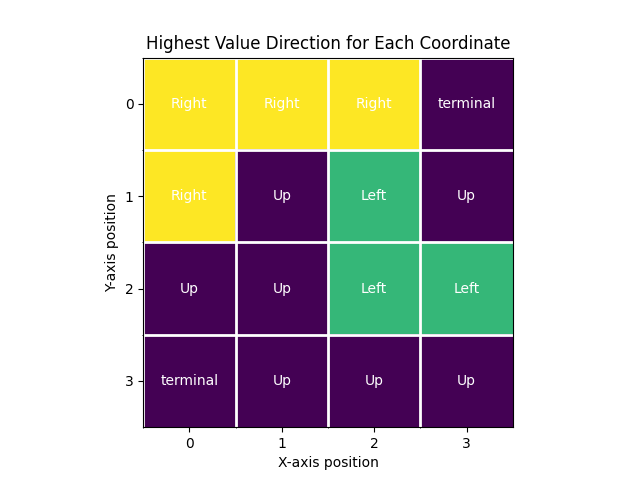
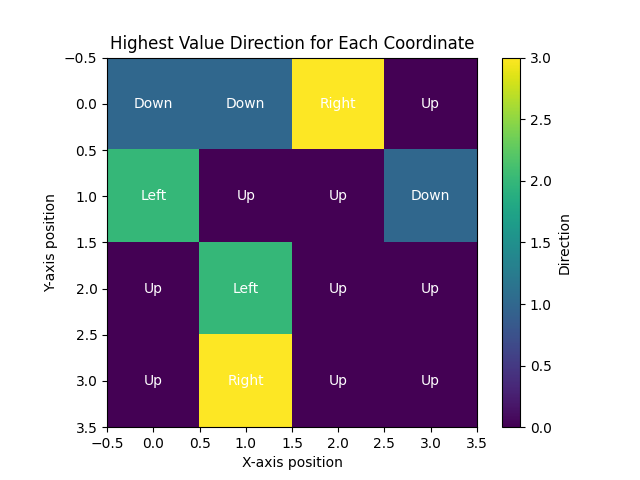
update to only maze.grid

diff --git a/AS2.2/Agent.py b/AS2.2/Agent.py
@@ -101,39 +101,43 @@ class Agent:
         for episode in range(episodes):
             print("episode: ", episode)
             # Initialize S
-            state = self.position
+            current_position = self.position
 
             print('\n')
-            print(state)
+            print(current_position)
             # Take action A using policy derived from Q (e.g., ε-greedy)
-            action = self.policy.decide_action_value(epsilon, self.maze.surrounding_values[state])
+            action = self.policy.decide_action_value(epsilon, self.maze.get_surrounding_values(current_position))
 
             # until S is terminal
-            while state not in self.maze.terminal_states:
+            while current_position not in self.maze.terminal_states:
                 # Take action A, observe R, S'
-                next_position = self.maze.stepper(self.position, action)
+                next_position = self.maze.stepper(current_position, action)
                 reward = self.maze.rewards[next_position]
 
                 # Choose A' from S' using policy derived from Q (e.g., ε-greedy)
-                next_action = self.policy.decide_action_value(epsilon, self.maze.surrounding_values[next_position])
+                next_action = self.policy.decide_action_value(epsilon, self.maze.get_surrounding_values(next_position))
 
                 # Q(S, A) <- Q(S, A) + α[R + γQ(S', A') - Q(S, A)]
-                current_q_value = self.maze.surrounding_values[state][action]
-                next_q_value = self.maze.surrounding_values[next_position][next_action]
+                current_q_value = self.maze.get_surrounding_values(current_position)[action]
+                next_q_value = self.maze.get_surrounding_values(next_position)[next_action]
                 updated_q_value = current_q_value + learning_rate * (reward + discount * next_q_value - current_q_value)
-                self.maze.surrounding_values[state][action] = updated_q_value
+                print("current_q_value: ", current_q_value)
+                print("next_q_value: ", next_q_value)
+                print("updated_q_value: ", updated_q_value)
+                print('\n')
+                self.maze.grid[current_position].append(updated_q_value)
 
-                # Set A <- A'
+                # Set S <- S'; Set A <- A'
+                current_position = next_position
                 action = next_action
 
-                # Set S <- S'
-                self.position = next_position
-                state = next_position
+            # self.position = (3, 2)
 
-            self.position = (3, 2)
-
-        self.plot_sarsa_values(f"SARSA_{discount}")
-        self.plot_sarsa_directions(f"SARSA_{discount}")
+        # self.plot_sarsa_values(f"SARSA_{discount}")
+        # self.plot_sarsa_directions(f"SARSA_{discount}")
+        self.plot_new_values(f"SARSA_{discount}")
+        self.plot_last_val(f"SARSA_{discount}")
+        print(self.maze.grid)
 
     def q_learning(self, discount: float, learning_rate: float, epsilon: float, episodes: int):
         """
@@ -354,3 +358,69 @@ class Agent:
         plt.tight_layout()
         plt.savefig(f'AS{plt_name}_visualization.png')
         plt.show()
+
+    def plot_new_values(self, plt_name):
+        # Define directions
+        directions = ["Up", "Down", "Left", "Right"]
+
+        # Initialize an array to store the directions
+        directions_array = np.zeros((4, 4), dtype=int)
+
+        # Fill the array with the directions based on the provided dictionary
+        for i in range(4):
+            for j in range(4):
+                # Get the index of the direction with the highest value
+                max_direction_index = np.argmax(self.maze.grid[(i, j)][-4:])
+                directions_array[i, j] = max_direction_index
+
+        # Plot the heatmap
+        plt.imshow(directions_array, cmap='viridis')
+
+        # Add labels and title
+        plt.xlabel('X-axis position')
+        plt.ylabel('Y-axis position')
+        plt.title('Highest Value Direction for Each Coordinate')
+
+        # Display the values on the heatmap
+        for i in range(4):
+            for j in range(4):
+                plt.text(j, i, directions[directions_array[i, j]], ha='center', va='center', color='w')
+
+        # Show the plot
+        plt.colorbar(label='Direction')
+        plt.grid(False)
+        plt.savefig(f'AS_{plt_name}_directions_visualization.png')
+        plt.show()
+
+    def plot_last_val(self, plt_name):
+        """
+        Plot the last value in a state transition matrix
+        """
+        rows = len(self.maze.grid)
+        cols = len(self.maze.grid)
+
+        values = []
+        for r in range(4):
+            row_values = []
+            for c in range(4):
+                key = (r, c)
+                row_values.append(round(self.maze.grid[key][-1], 2))  # Taking the last value for each cell
+            values.append(row_values)
+
+        plt.figure(figsize=(8, 6))
+        plt.imshow(values, cmap='viridis', interpolation='nearest')
+
+        for r in range(4):
+            for c in range(4):
+                color = 'black' if values[r][c] > 30 else 'white'
+                plt.text(c, r, values[r][c], ha='center', va='center', color=color)
+
+        plt.title('Last Value Heatmap')
+        plt.xticks(range(4))
+        plt.yticks(range(4))
+        plt.xlabel('Column')
+        plt.ylabel('Row')
+        plt.colorbar(label='Value')
+        plt.savefig(f'AS{plt_name}_last_value_visualization.png')
+        plt.show()
+

diff --git a/AS2.2/test.py b/AS2.2/test.py
@@ -1,0 +1,53 @@
+import numpy as np
+from Maze import Maze
+
+
+class SARSA:
+    def __init__(self, maze, learning_rate=0.1, discount_factor=0.99, epsilon=0.1):
+        self.maze = maze
+        self.learning_rate = learning_rate
+        self.discount_factor = discount_factor
+        self.epsilon = epsilon
+        self.q_values = np.zeros((len(maze.grid), len(maze.actions)))
+
+    def choose_action(self, position):
+        if np.random.rand() < self.epsilon:
+            return np.random.randint(len(self.maze.actions))  # Exploration: choose random action
+        else:
+            return np.argmax(self.q_values[position])  # Exploitation: choose action with max Q-value
+
+    def update_q_value(self, position, action, reward, next_position, next_action):
+        current_q_value = self.q_values[position, action]
+        next_q_value = self.q_values[next_position, next_action]
+        td_target = reward + self.discount_factor * next_q_value
+        td_error = td_target - current_q_value
+        self.q_values[position, action] += self.learning_rate * td_error
+
+# Create maze instance
+maze = Maze()
+maze.create_maze_values()
+
+# Initialize SARSA agent
+agent = SARSA(maze)
+
+# Simulate SARSA learning
+num_episodes = 1000
+for episode in range(num_episodes):
+    position = (0, 0)  # Initial position
+    action = agent.choose_action(position)
+    done = False
+    while not done:
+        next_position = maze.stepper(position, action)
+        reward = maze.rewards[next_position]
+        next_action = agent.choose_action(next_position)
+        agent.update_q_value(maze.grid_index[position], action, reward, maze.grid_index[next_position], next_action)
+
+        position = next_position
+        action = next_action
+
+        if position in maze.terminal_states:
+            done = True
+
+# Print learned Q-values
+print("Learned Q-values:")
+print(agent.q_values)

diff --git a/AS2.2/Maze.py b/AS2.2/Maze.py
@@ -32,6 +32,23 @@ class Maze:
         else:
             return position
 
+    def get_surrounding_values(self, position: tuple) -> list:
+        """
+        Get the surrounding states for current position
+
+            Parameters:
+                position(tuple): Current x and y-axis position
+
+            Return:
+                states(dict): list with for each state the surrounding rewards and values
+        """
+        states = []
+        for action in self.actions.keys():
+            state = self.stepper(position, action)
+            states.append(self.grid[state][-1])
+        print(states)
+        return states
+
     def surrounding_states(self, position: tuple) -> dict:
         """
         Get the surrounding states for current position

diff --git a/AS2.2/main.py b/AS2.2/main.py
@@ -27,7 +27,7 @@ agent = Agent(start_position, maze, policy, delta_threshold)
 
 # agent.temporal_difference(1, 0.5, 10)
 # agent.temporal_difference(0.5, 0.5, 10)
-agent.sarsa(1, 0.25, 0.1, 100000)
+agent.sarsa(1, 0.25, 0.1, 10000)
 # agent.sarsa(0.9, 0.25, 0.1, 100000)
 # agent.q_learning(1, 0.25, 0.1, 100000)
 # agent.q_learning(0.9, 0.5, 0.1, 100000)
